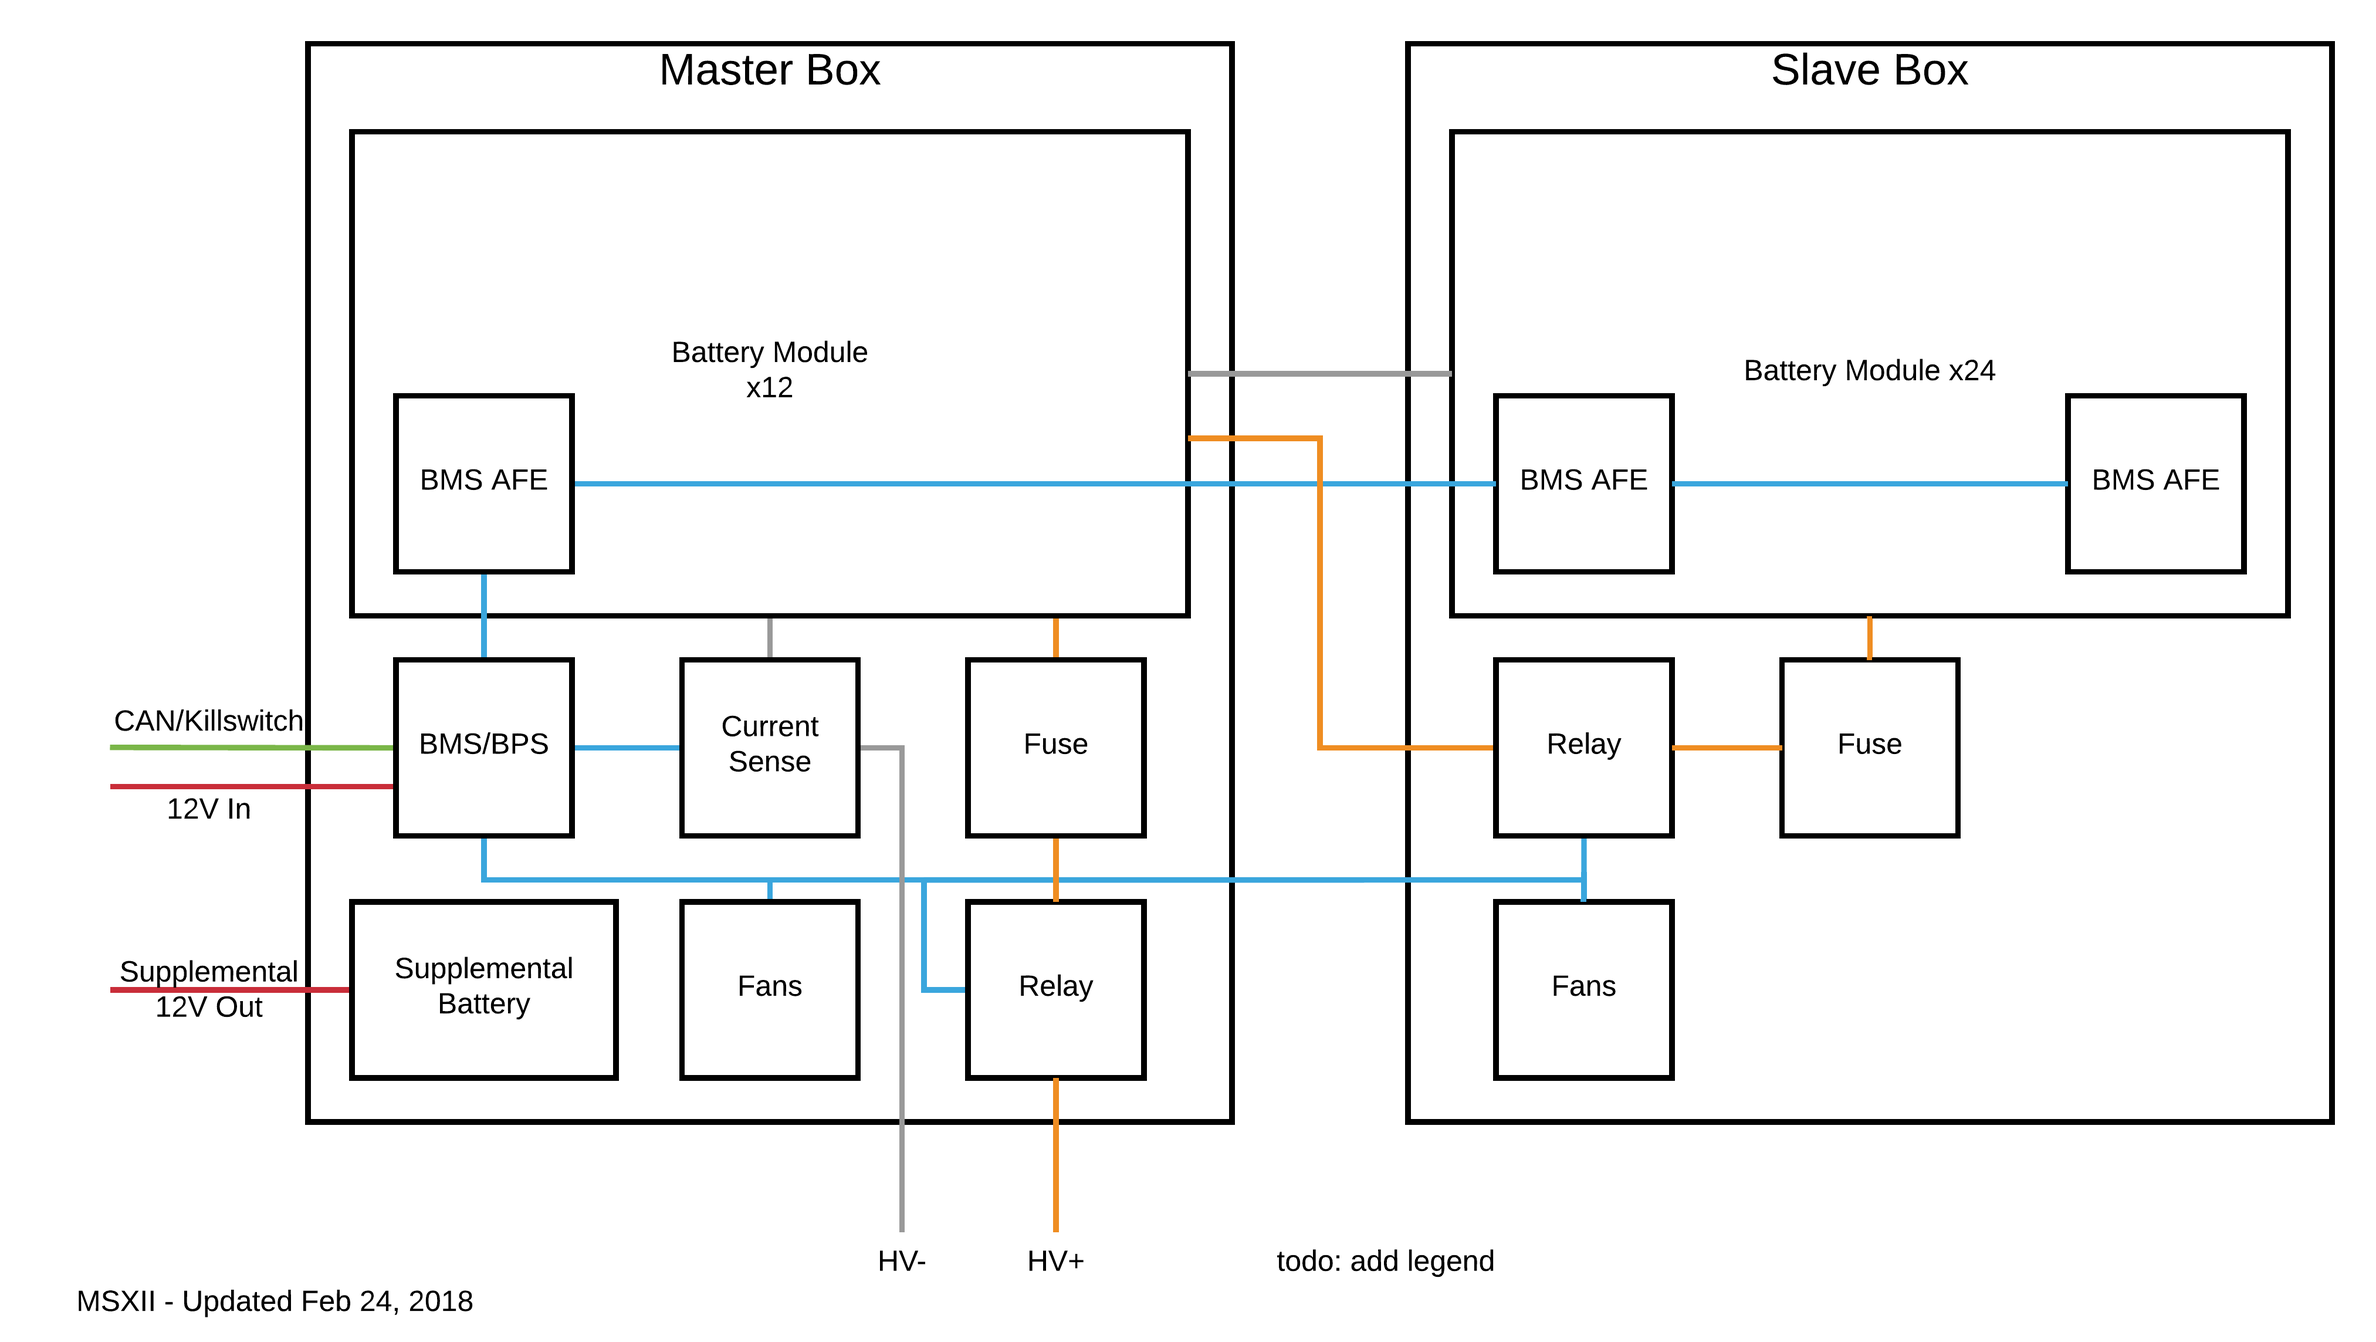
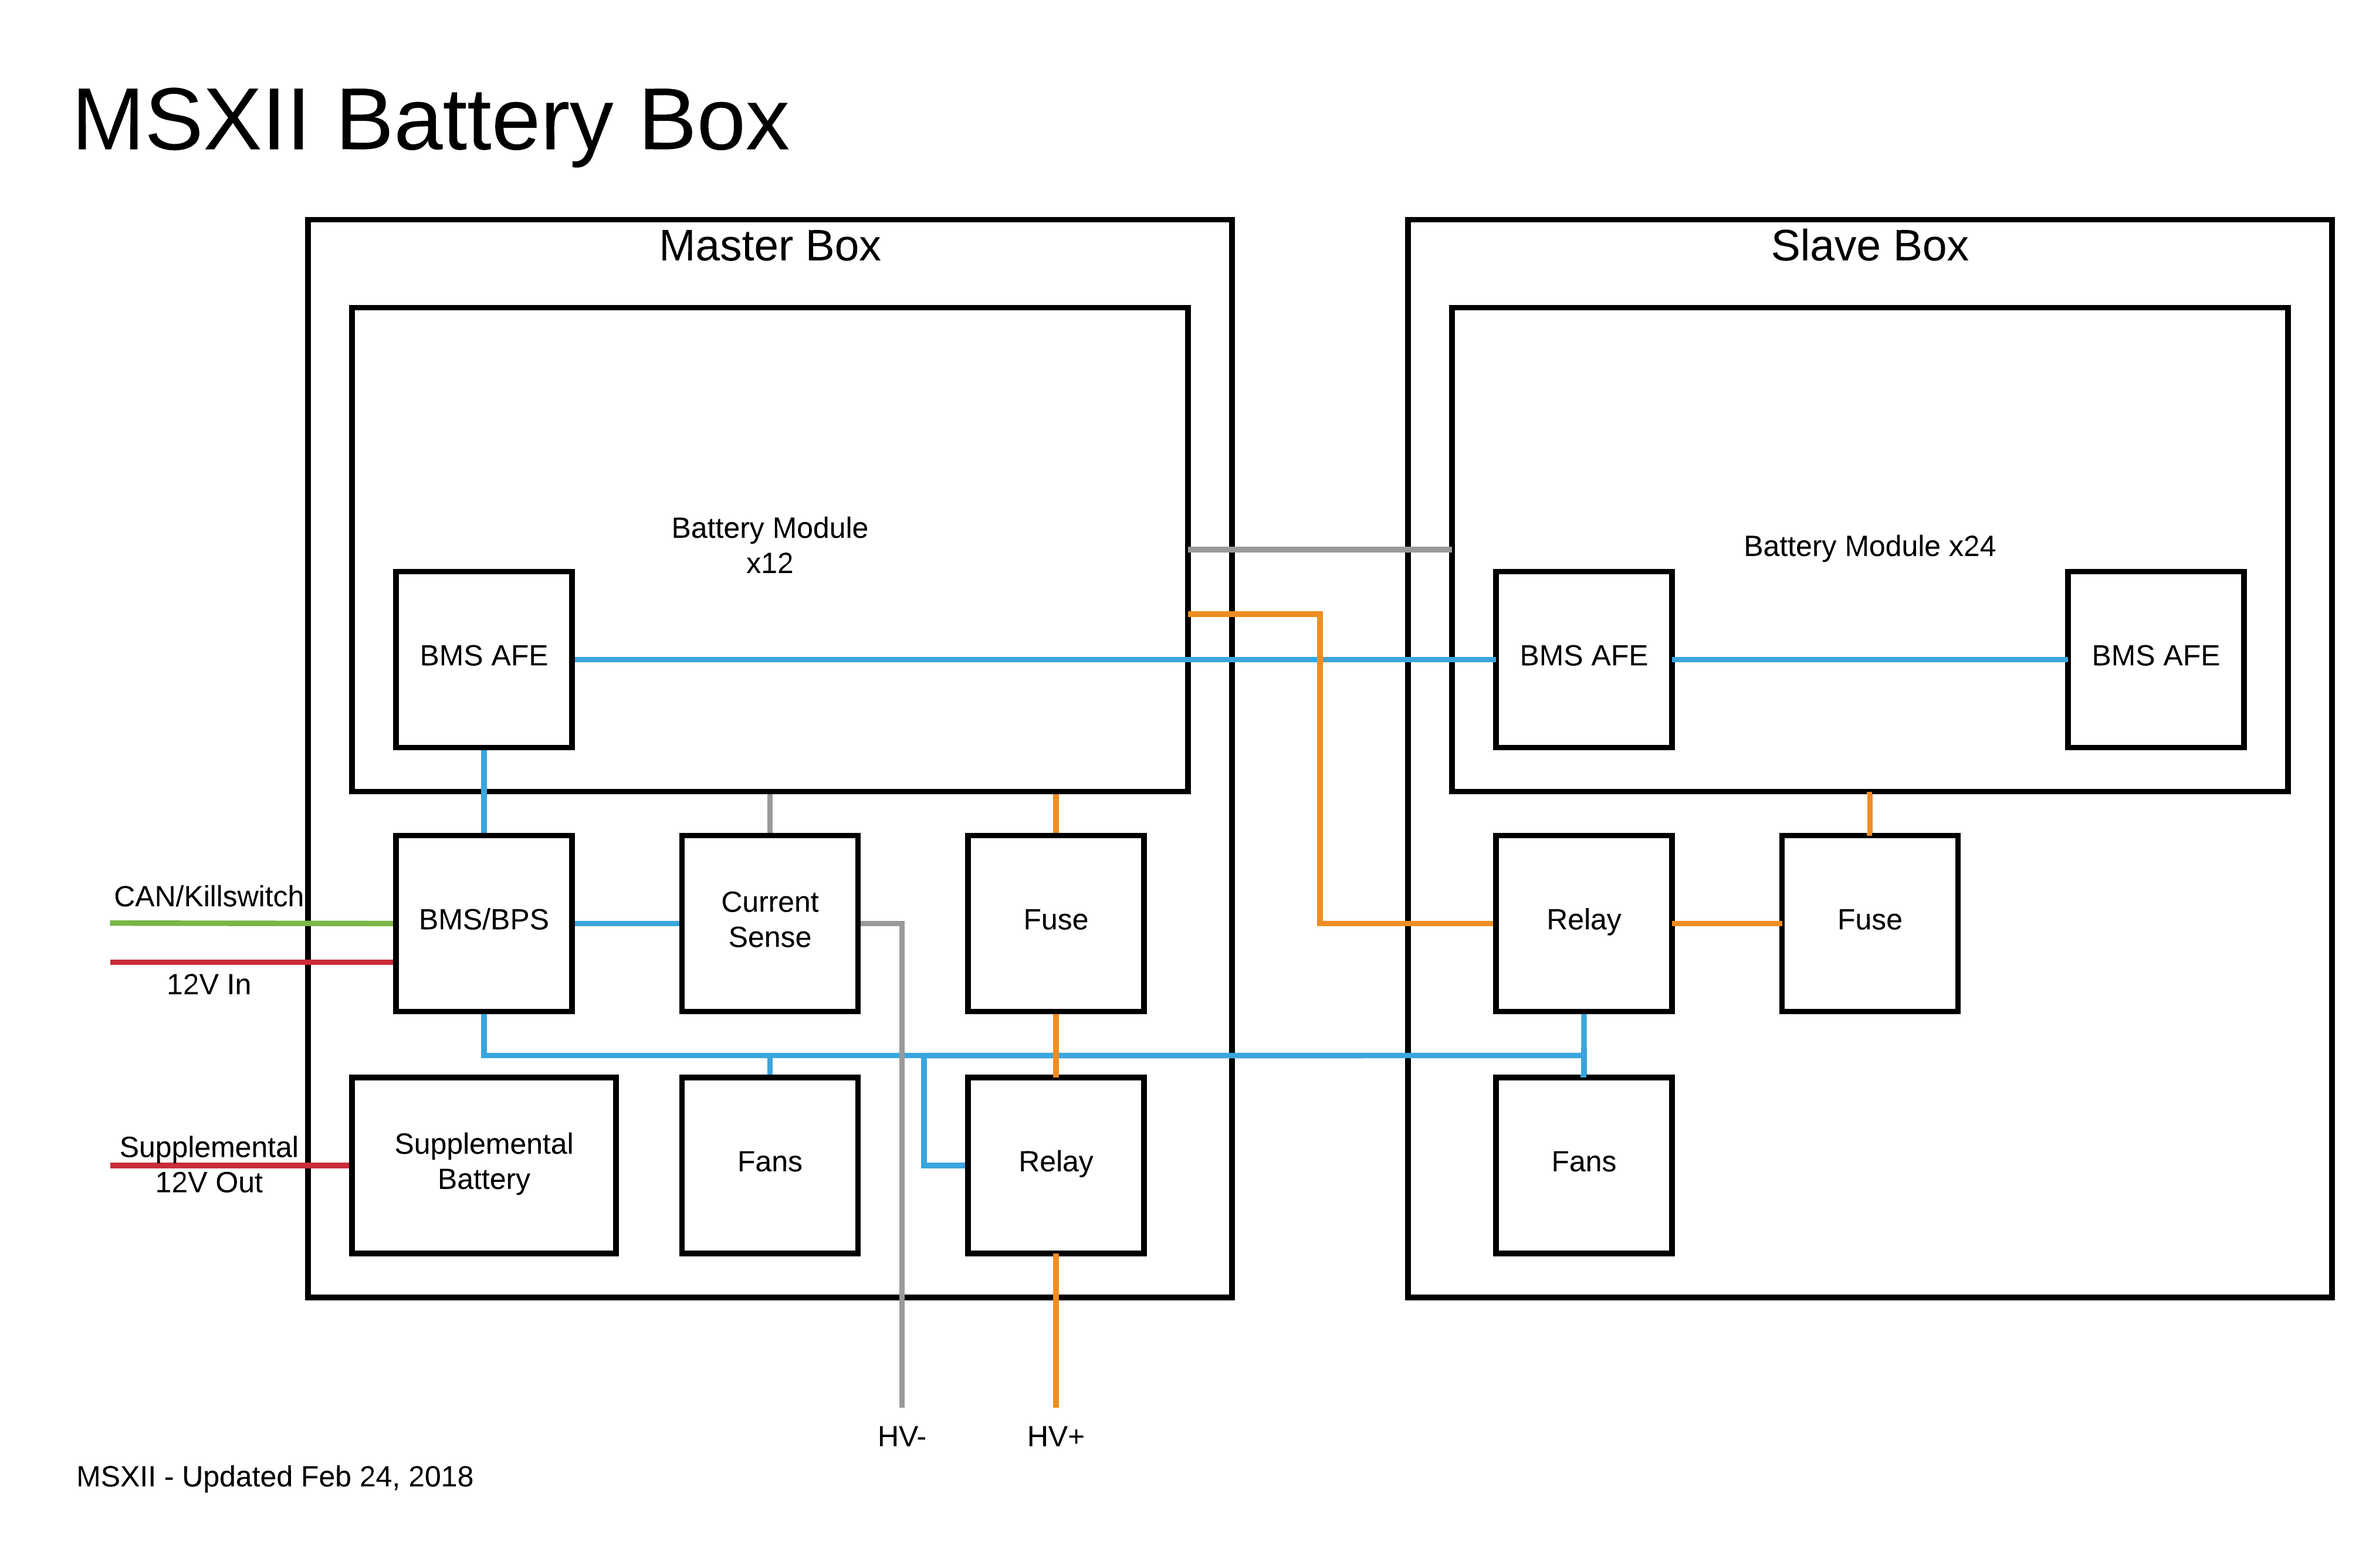
ELEC-360: Update block diagram

diff --git a/asc2018/vdr/electrical/WaterlooMidnightSun_ASC2018VDR_BatteryProtectionReport.tex b/asc2018/vdr/electrical/WaterlooMidnightSun_ASC2018VDR_BatteryProtectionReport.tex
@@ -140,8 +140,6 @@ See attached form
 
 \subsection{5.2.E.7: BPS Block Diagram}
 
-\textbf{TODO: add legend}
-
 \includegraphics[width=1\textwidth]{./figures/msxii-electrical-battery-box-block-diagram.png}
 
 \subsection{5.2.E.8: BPS Operation}
